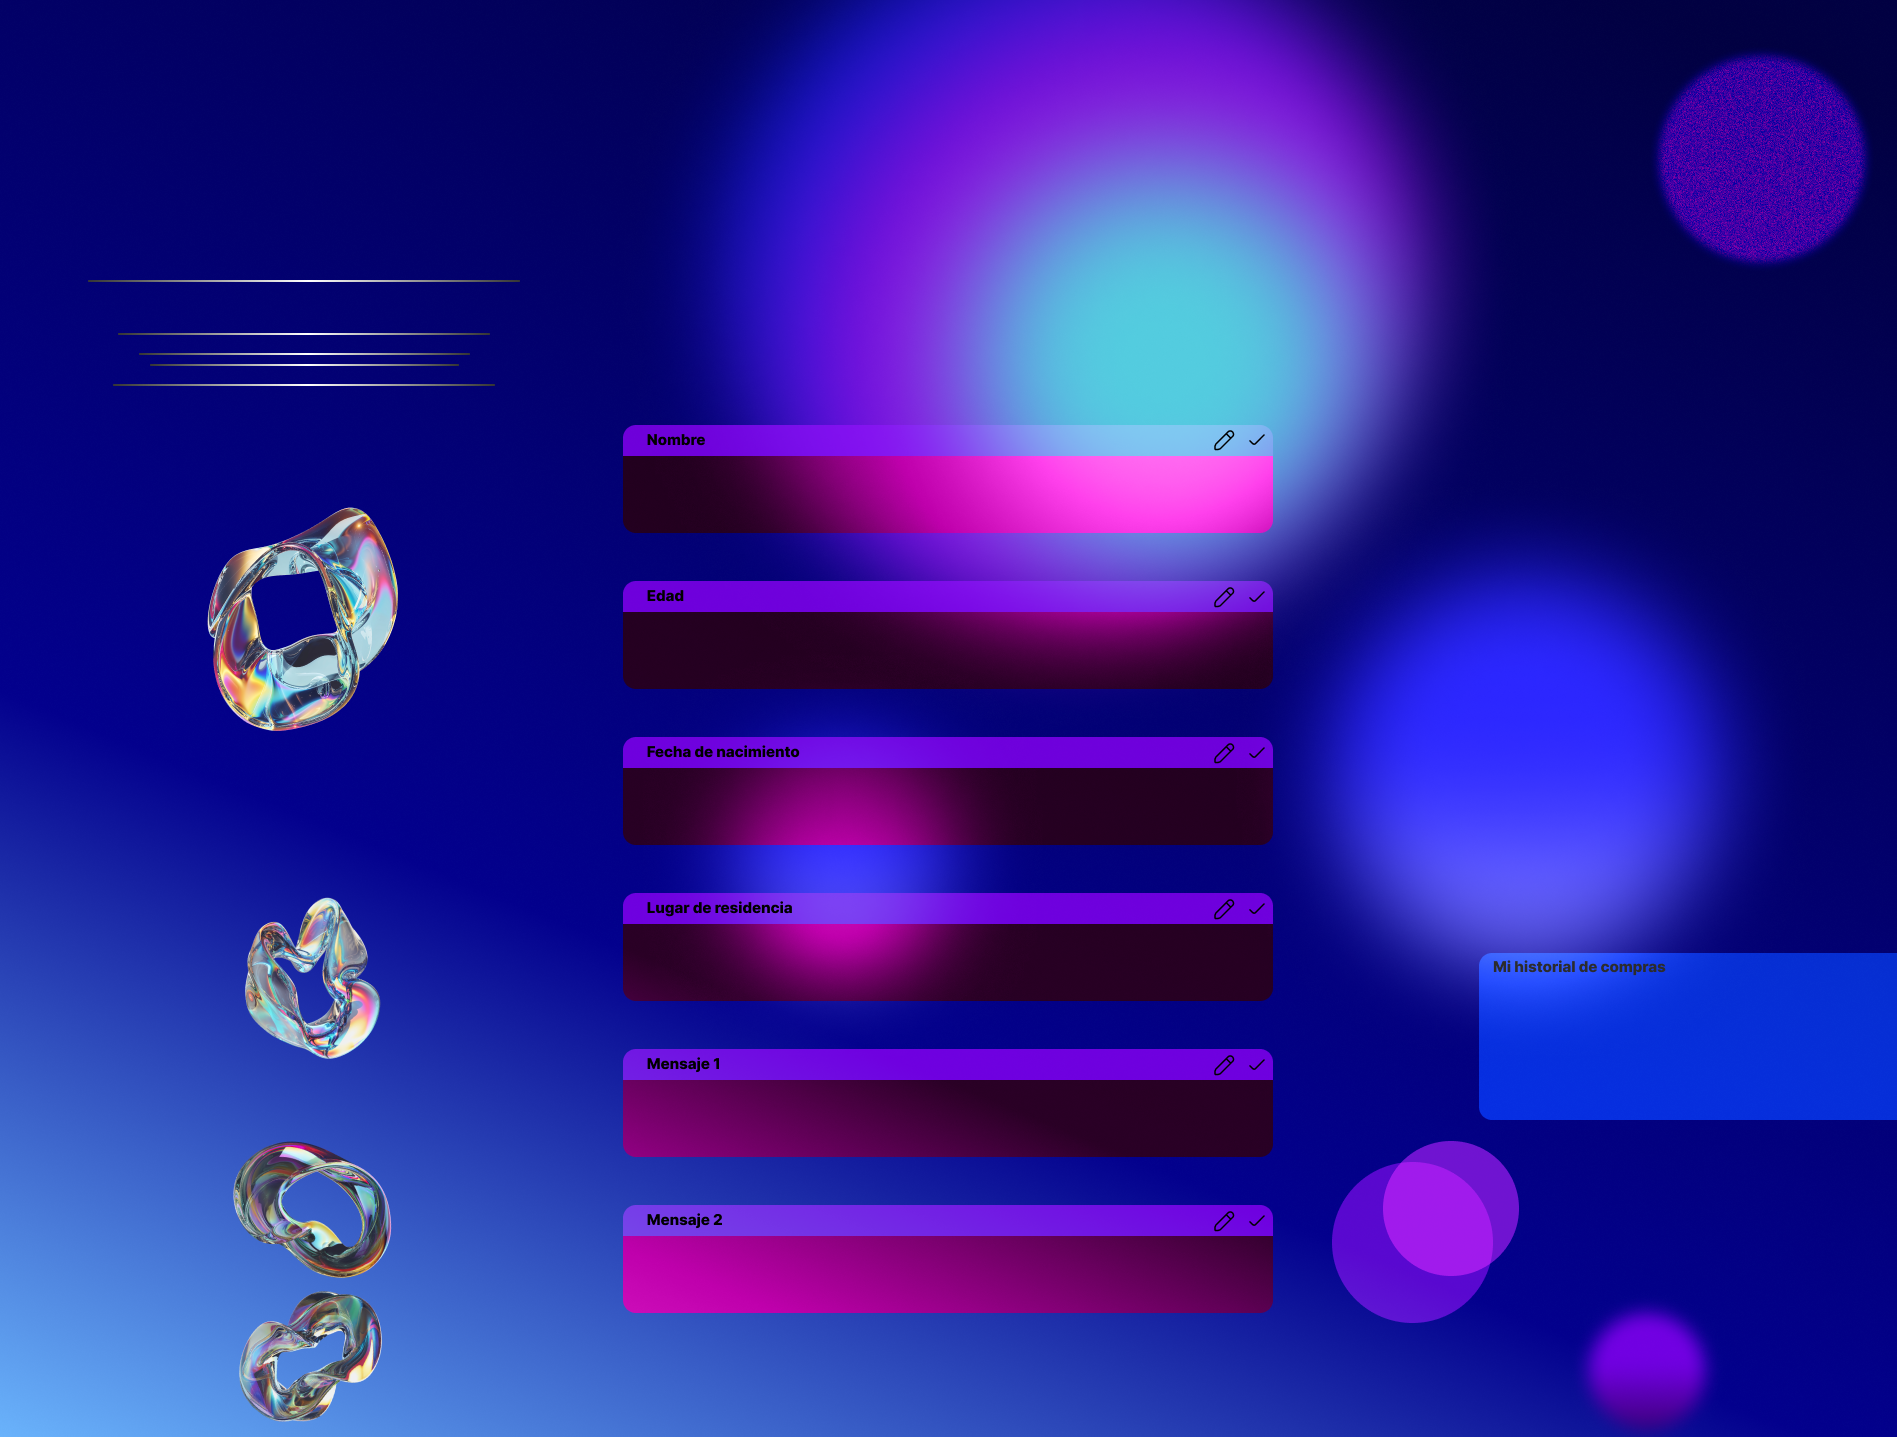
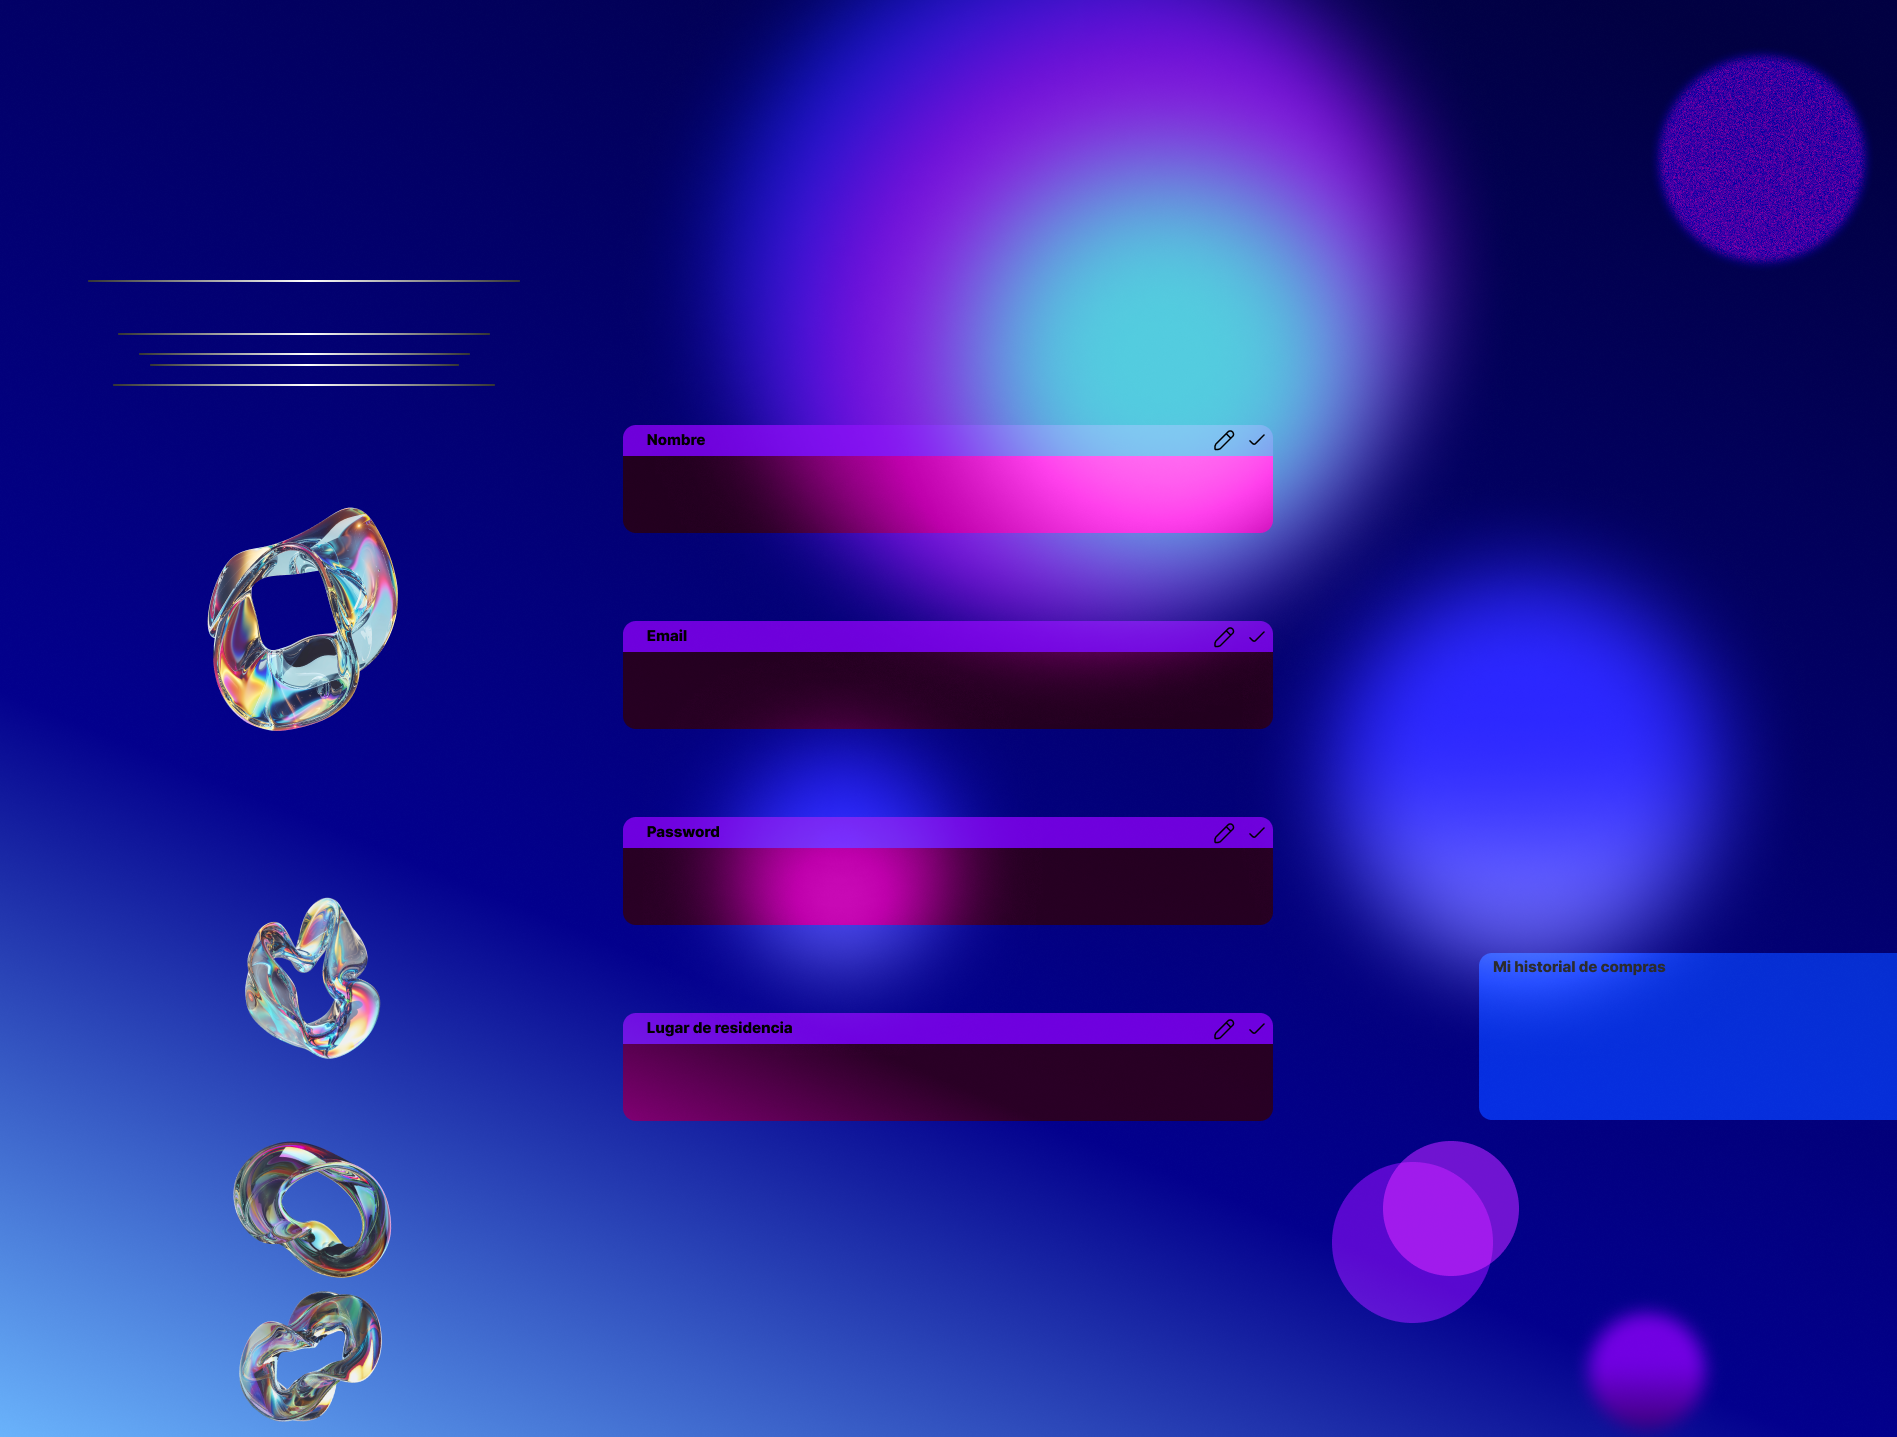
Avance en perfil de usuario

Changed region(s): [[0.311, 0.3981, 0.6842, 0.9186]]

diff --git a/Front_end/src/Components/UserProfile/UserProfile.jsx b/Front_end/src/Components/UserProfile/UserProfile.jsx
@@ -1,21 +1,159 @@
 import style from './UserProfile.module.css'
 import fondo from '../../assets/Imagenes/UserProfile_fondo_aplicar.png'
-import lapiz from '../../assets/Imagenes/icono_lapiz.png'
-import check from '../../assets/Imagenes/icono_check.png'
+import { useEffect, useState } from 'react'
+import axios from 'axios'
+
 
 const UserProfile = () => {
+  const URL_USUARIO = 'http://localhost:3001/findone/'
+  const userLocalStorage = 'user'
+  const [modoEdicion, setModoEdicion] = useState({ name: false, email: false, contraseña: false, lugar: false });
+  const [datosUsuario, setDatosUsuario] = useState(null);
+  // se usa el estado comentado, este es para iniciar prueba.
+  // const [datosUsuario, setDatosUsuario] = useState({ name: false, email: false, contraseña: false, lugar: false });
+
+  useEffect( async () => {
+    // peticion de findOne
+    const obtenerDatosUsuario = async () => {
+      try {
+        const { data } = await axios.get(`${URL_USUARIO}${userLocalStorage}`);
+        setDatosUsuario(data);
+      } catch (error) {
+        alert(error)
+      }
+    }
+    obtenerDatosUsuario();
+  }, [])
+
+  const manejarClicEditar = (campo) => {
+    setModoEdicion({ ...modoEdicion, [campo]: !modoEdicion[campo] });
+  };
+
+  const manejarCambioInput = (evento, campo) => {
+    setDatosUsuario({ ...datosUsuario, [campo]: evento.target.value });
+  };
+
+  const manejarClicGuardar = async (campo) => {
+    try {
+      const datosActualizados = { ...datosUsuario };
+      delete datosActualizados.modoEdicion; 
+
+      const respuesta = await axios.post('/api/actualizar-usuario', datosActualizados);
+
+      console.log('Datos del usuario actualizados:', respuesta.data);
+      setModoEdicion({ ...modoEdicion, [campo]: false });
+    } catch (error) {
+      console.error('Error al actualizar los datos del usuario:', error);
+    }
+  }; 
+
+  // if (!datosUsuario) {
+  //   return <div>Cargando datos del usuario...</div>;
+  // }
+
+
+
   return (
     <div className={style.container}>
-      <div>
-        <img className={style.fondo} src={fondo} />
-        <div className={style.iconos}>
-          <div className={style.iconos_box}>
-            <div></div>
-            <div></div>
-          </div>
+      <div className={style.profilePic}></div>
+      <img className={style.fondo} src={fondo} />
+      <div className={style.iconos}>
+        <div className={style.iconos_box}>
+          <div className={style.edit1} onClick={() => manejarClicEditar('name')}></div>
+          <div className={style.save1} onClick={() => manejarClicGuardar('name')}></div>
+        </div>
+        <div className={style.iconos_box2}>
+          <div className={style.edit1} onClick={() => manejarClicEditar('email')}></div>
+          <div className={style.save1} onClick={() => manejarClicGuardar('email')}></div>
+        </div>
+        <div className={style.iconos_box3}>
+          <div className={style.edit1} onClick={() => manejarClicEditar('password')}></div>
+          <div className={style.save1} onClick={() => manejarClicGuardar('password')}></div>
+        </div>
+        <div className={style.iconos_box4}>
+          <div className={style.edit1} onClick={() => manejarClicEditar('city')}></div>
+          <div className={style.save1} onClick={() => manejarClicGuardar('city')}></div>
         </div>
       </div>
 
+      <div className={style.textos}>
+        <div className={style.name}>Primer nombre primer apellido
+        {modoEdicion.name ? (
+            <input
+              type="text"
+              value={datosUsuario.name}
+              onChange={(e) => manejarCambioInput(e, 'name')}
+            />
+          ) : (
+              <div>{datosUsuario.name}</div>
+          )}
+        </div>
+        <div className={style.email}>email
+        {modoEdicion.email ? (
+            <input
+              type="text"
+              value={datosUsuario.email}
+              onChange={(e) => manejarCambioInput(e, 'email')}
+            />
+          ) : (
+              <div>{datosUsuario.email}</div>
+          )}
+        </div>
+        <div className={style.password}>password
+        {modoEdicion.password ? (
+            <input
+              type="text"
+              value={datosUsuario.password}
+              onChange={(e) => manejarCambioInput(e, 'password')}
+            />
+          ) : (
+              <div>{datosUsuario.password}</div>
+          )}
+        </div>
+        <div className={style.place}>place
+        {modoEdicion.city ? (
+            <input
+              type="text"
+              value={datosUsuario.city}
+              onChange={(e) => manejarCambioInput(e, 'city')}
+            />
+          ) : (
+              <div>{datosUsuario.city}</div>
+          )}
+        </div>
+      </div>
+
+      <div className={style.historial}>
+        <div className={style.arriba}>
+          <div className={style.total}>{`$'{ }'compras en total`}</div>
+        </div>
+        <div className={style.abajo}>
+          <div className={style.derecha}>
+            <div className={style.numero}>
+              <div>0</div>
+              <div>1</div>
+              <div>2</div>
+            </div>
+            <div className={style.letra}>
+              <div>Shirts</div>
+              <div>Pants</div>
+              <div>Skirts</div>
+            </div>
+          </div>
+          <div className={style.izquierda}>
+            <div className={style.numero}>
+              <div>0</div>
+              <div>1</div>
+              <div>2</div>
+            </div>
+            <div className={style.letra}>
+              <div>T-shirts</div>
+              <div>Coats</div>
+              <div>Jackets</div>
+            </div>
+          </div>
+        </div>
+      </div>
     </div>
   )
 }

diff --git a/Front_end/src/Components/UserProfile/UserProfile.module.css b/Front_end/src/Components/UserProfile/UserProfile.module.css
@@ -1,9 +1,17 @@
+.container{
+  line-height: 0;
+}
+.profilePic{
+  height: 35%;
+  width: 14%;
+  background-color: red;
+  position: absolute;
+  top: 12%;
+  left: 9.1%;
+}
 .fondo{
   height: 150vh;
   width: 100%;
-}
-.container{
-  line-height: 0;
 }
 .iconos_box{
   position: absolute;
@@ -13,9 +21,122 @@
   display: flex;
   justify-content: flex-end
 }
-.iconos_box div{
-  height: 20px;
-  width: 17px;
+.iconos_box2{
+  position: absolute;
+  right: 33.1%;
+  width: 5%;
+  display: flex;
+  justify-content: flex-end;
+  top: 65%;
+}
+.iconos_box3{
+  position: absolute;
+  right: 33.1%;
+  width: 5%;
+  display: flex;
+  justify-content: flex-end;
+  top: 85.5%;
+}
+.iconos_box4{
+  position: absolute;
+  right: 33.1%;
+  width: 5%;
+  display: flex;
+  justify-content: flex-end;
+  top: 106%;
+}
+.iconos_box div,
+.iconos_box2 div,
+.iconos_box3 div,
+.iconos_box4 div{
+  height: 3vh;
+  width: 1.3vw;
   margin-left: 5%;
-  border: 1px solid black;
+  background-color: red;
+}
+.textos{
+  position: absolute;
+  top: 41.5%;
+  left: 35%;
+  height: 82vh;
+  width: 30%;
+  display: flex;
+  flex-direction: column;
+  justify-content: space-around
+}
+.textos div{
+  box-sizing: border-box;
+  padding-top: 5%;
+  text-align: left;
+  height: 10%;
+  width: 100%;
+  background-color: rgb(255, 0, 0);
+}
+.historial{
+  background-color: red;
+  height: 18%;
+  width: 22%;
+  position: absolute;
+  top: 100%;
+  right: 0;
+  display: flex;
+  flex-direction: column;
+  justify-content: space-between
+}
+.arriba{
+  height: 15%;
+  display: flex;
+  align-items: center;
+  text-align: right;
+  background-color: yellowgreen;
+  justify-content: flex-end
+}
+.abajo{
+  box-sizing: border-box;
+  height: 70%;
+  display: flex;
+  width: 100%;
+  justify-content: space-around;
+}
+.derecha{
+  display: flex;
+  width: 8vw;
+  justify-content: space-evenly
+}
+.derecha div{
+  background-color: blue;
+}
+.izquierda{
+  display: flex;
+  width: 8vw;
+  justify-content: space-evenly
+}
+.izquierda div{
+  background-color: blue;
+}
+.numero{
+  width: 20%;
+  display: flex;
+  flex-direction: column;
+  height: 100%;
+  justify-content: space-around;
+  font-size: 1vw;
+  text-align: left;
+}
+.letra{
+  width: 60%;
+  display: flex;
+  flex-direction: column;
+  height: 100%;
+  justify-content: space-around;
+  font-size: 1vw;
+  text-align: left;
+}
+.edit1{
+  z-index: 100;
+  cursor: pointer;
+}
+.save1{
+  z-index: 100;
+  cursor: pointer;
 }
